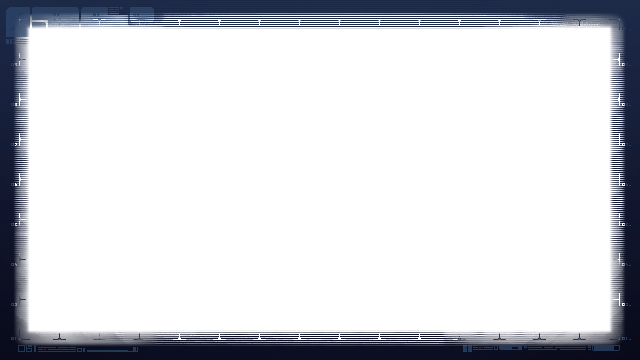
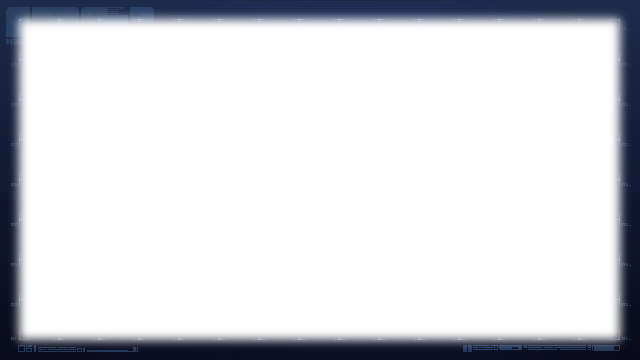
MapShader && Blabla

Changed region(s): [[0.0, 0.0306, 1.0, 0.9778]]

diff --git a/NeonStarLibrary/Screens/MapScreen.cs b/NeonStarLibrary/Screens/MapScreen.cs
@@ -1,4 +1,5 @@
 using Microsoft.Xna.Framework;
+using Microsoft.Xna.Framework.Input;
 using NeonEngine;
 using NeonEngine.Components.Graphics2D;
 using System;
@@ -21,18 +22,21 @@ namespace NeonStarLibrary
         private List<Graphic> _currentMapRooms;
 
         private Entity _mapEntity;
+        private float k = 0.2f;
+        private float kcube = 0.3f;
 
         public MapScreen(Game game)
             :base(game)
         {
-            /*this.ScreenEffect = AssetManager.GetEffect("CubicLens");
-            ScreenEffect.Parameters["k"].SetValue(0.4f);
-            ScreenEffect.Parameters["kcube"].SetValue(0.1f);*/
+            this.ScreenEffect = AssetManager.GetEffect("CubicLens");
+            ScreenEffect.Parameters["k"].SetValue(k);
+            ScreenEffect.Parameters["kcube"].SetValue(kcube);
             Camera.Position = Vector2.Zero;
         }
 
         public override void Update(GameTime gameTime)
         {
+
             if(Neon.Input.Pressed(Microsoft.Xna.Framework.Input.Buttons.Back))
             {
                 Neon.World = CurrentGameScreen;
